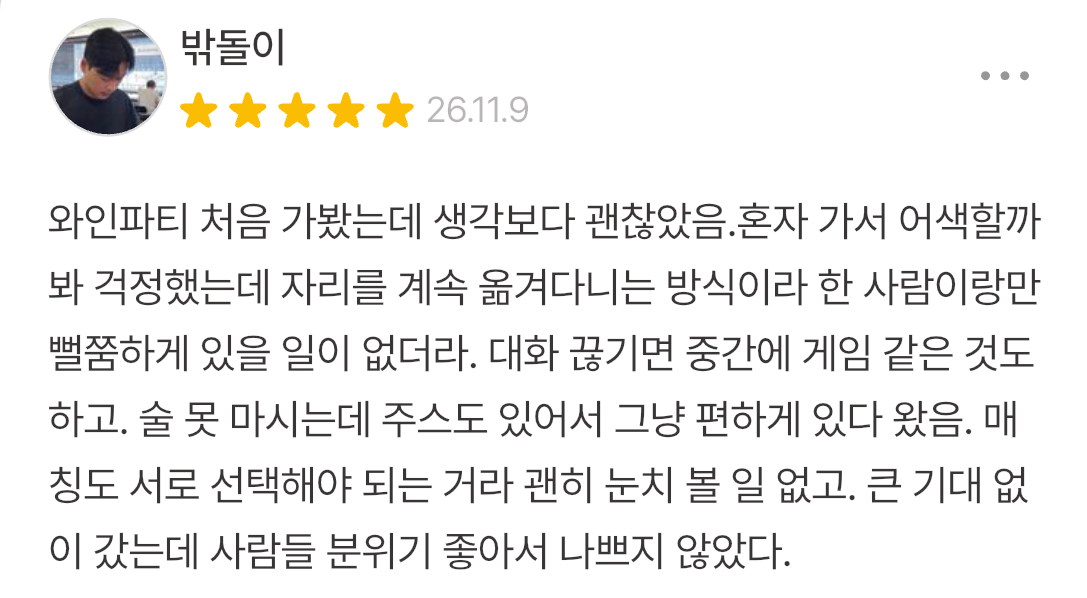
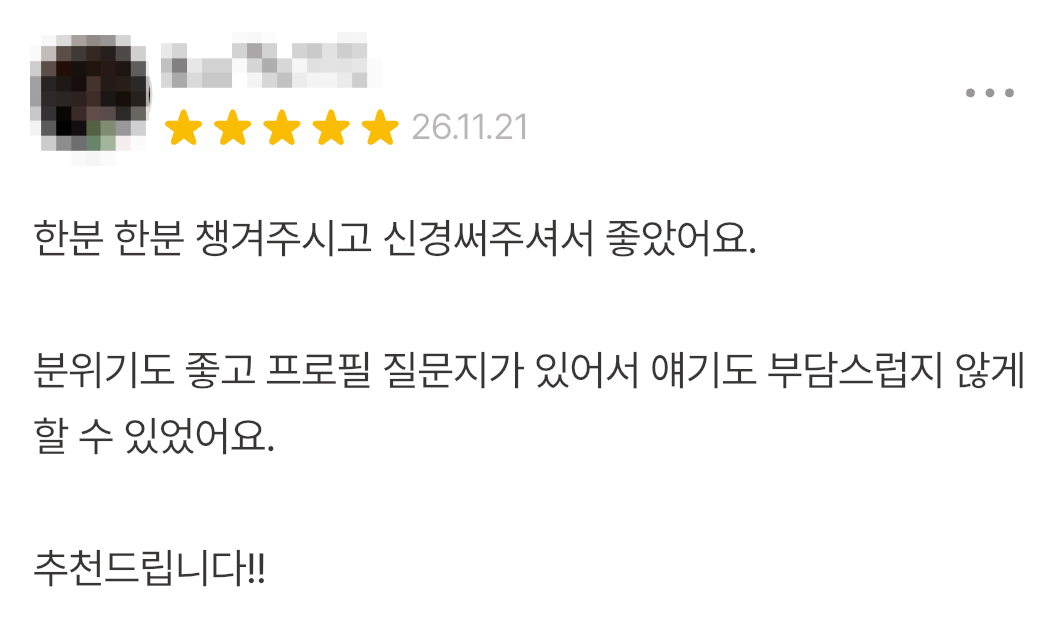
feat: 상세페이지 후기 이미지 08까지 노출

diff --git a/resources/views/admin/rotation/_detailSample.blade.php b/resources/views/admin/rotation/_detailSample.blade.php
@@ -429,7 +429,7 @@
          이미지는 원본 비율 그대로(width:100%, height:auto) 보여주고, 카드 배경을 흰색으로 둬 높이 차이가 티 나지 않게 한다. --}}
     @php
         $reviewFiles = array_values(array_filter(
-            array_map(fn (int $n): string => sprintf('review%02d.png', $n), range(1, 6)),
+            array_map(fn (int $n): string => sprintf('review%02d.png', $n), range(1, 8)),
             fn ($f) => file_exists(public_path('images/' . $f)),
         ));
         $reviewRows = array_chunk($reviewFiles, 2);
